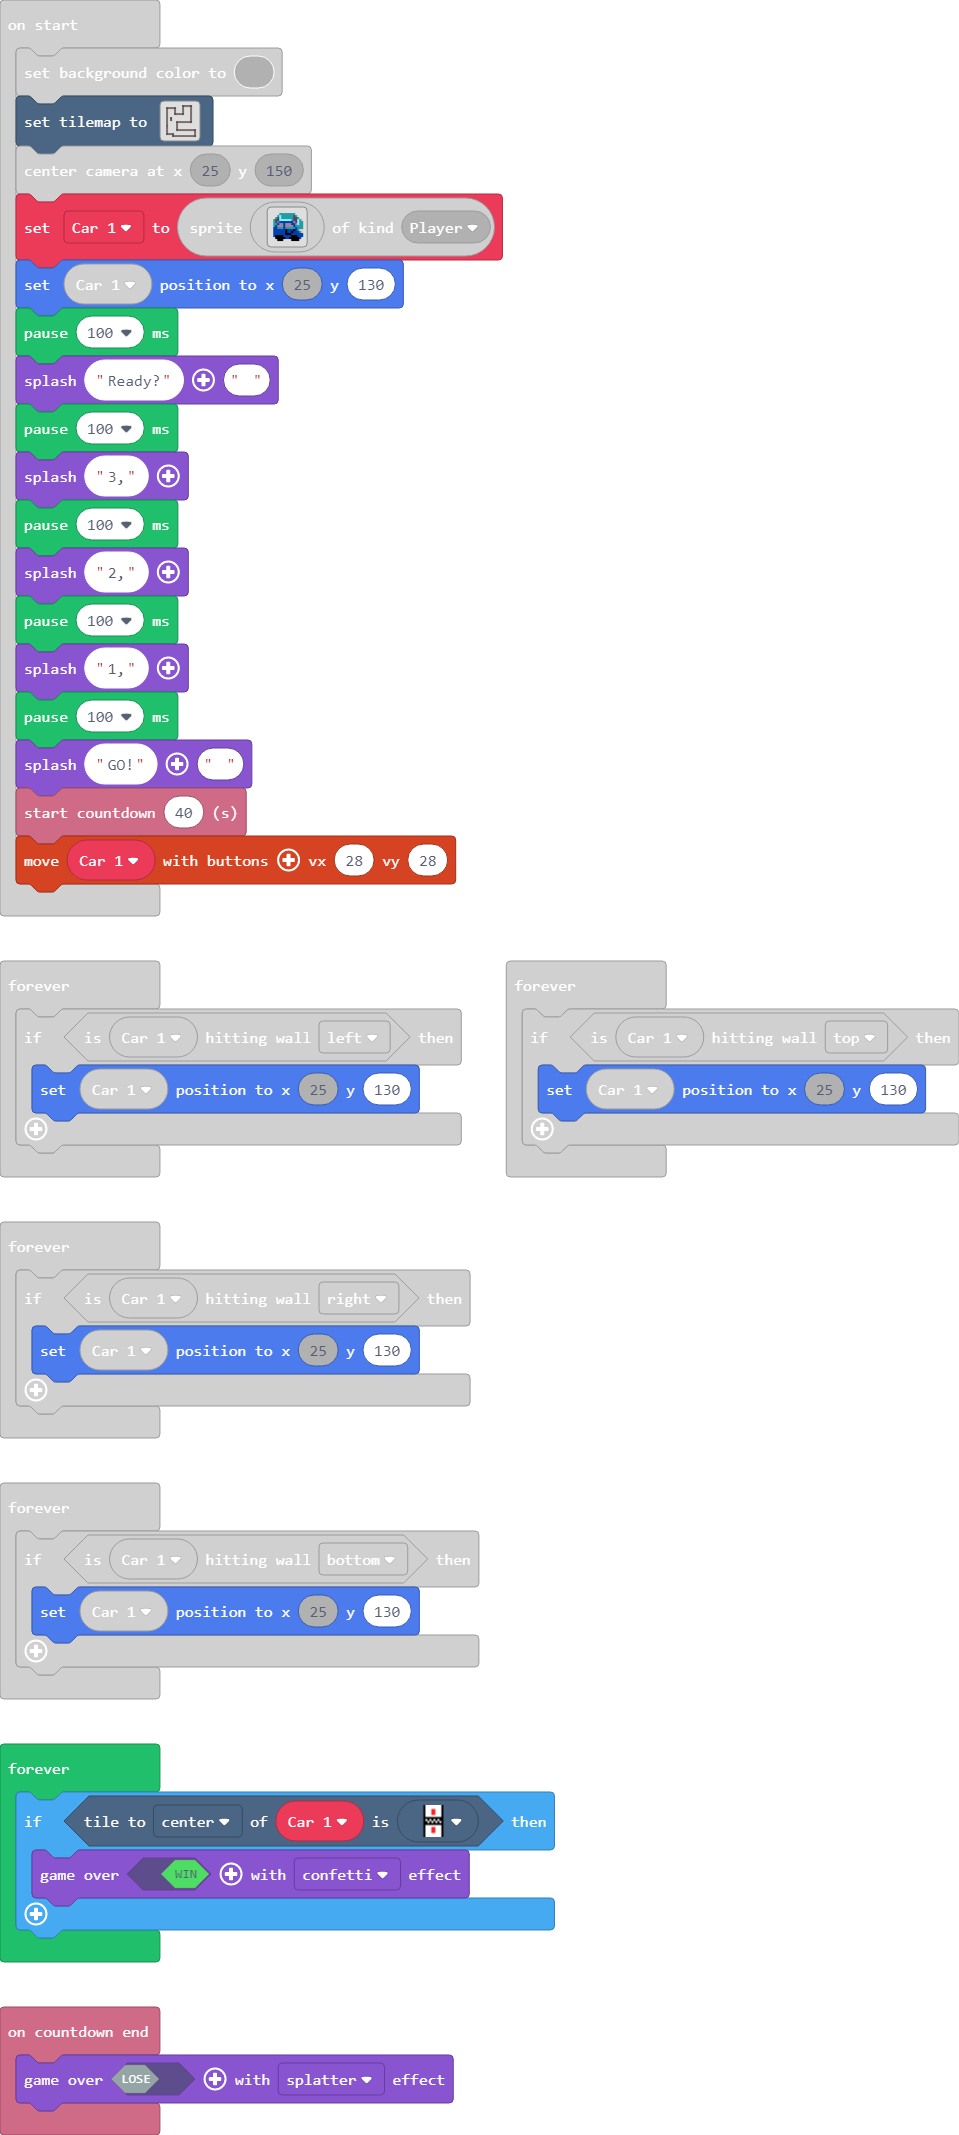
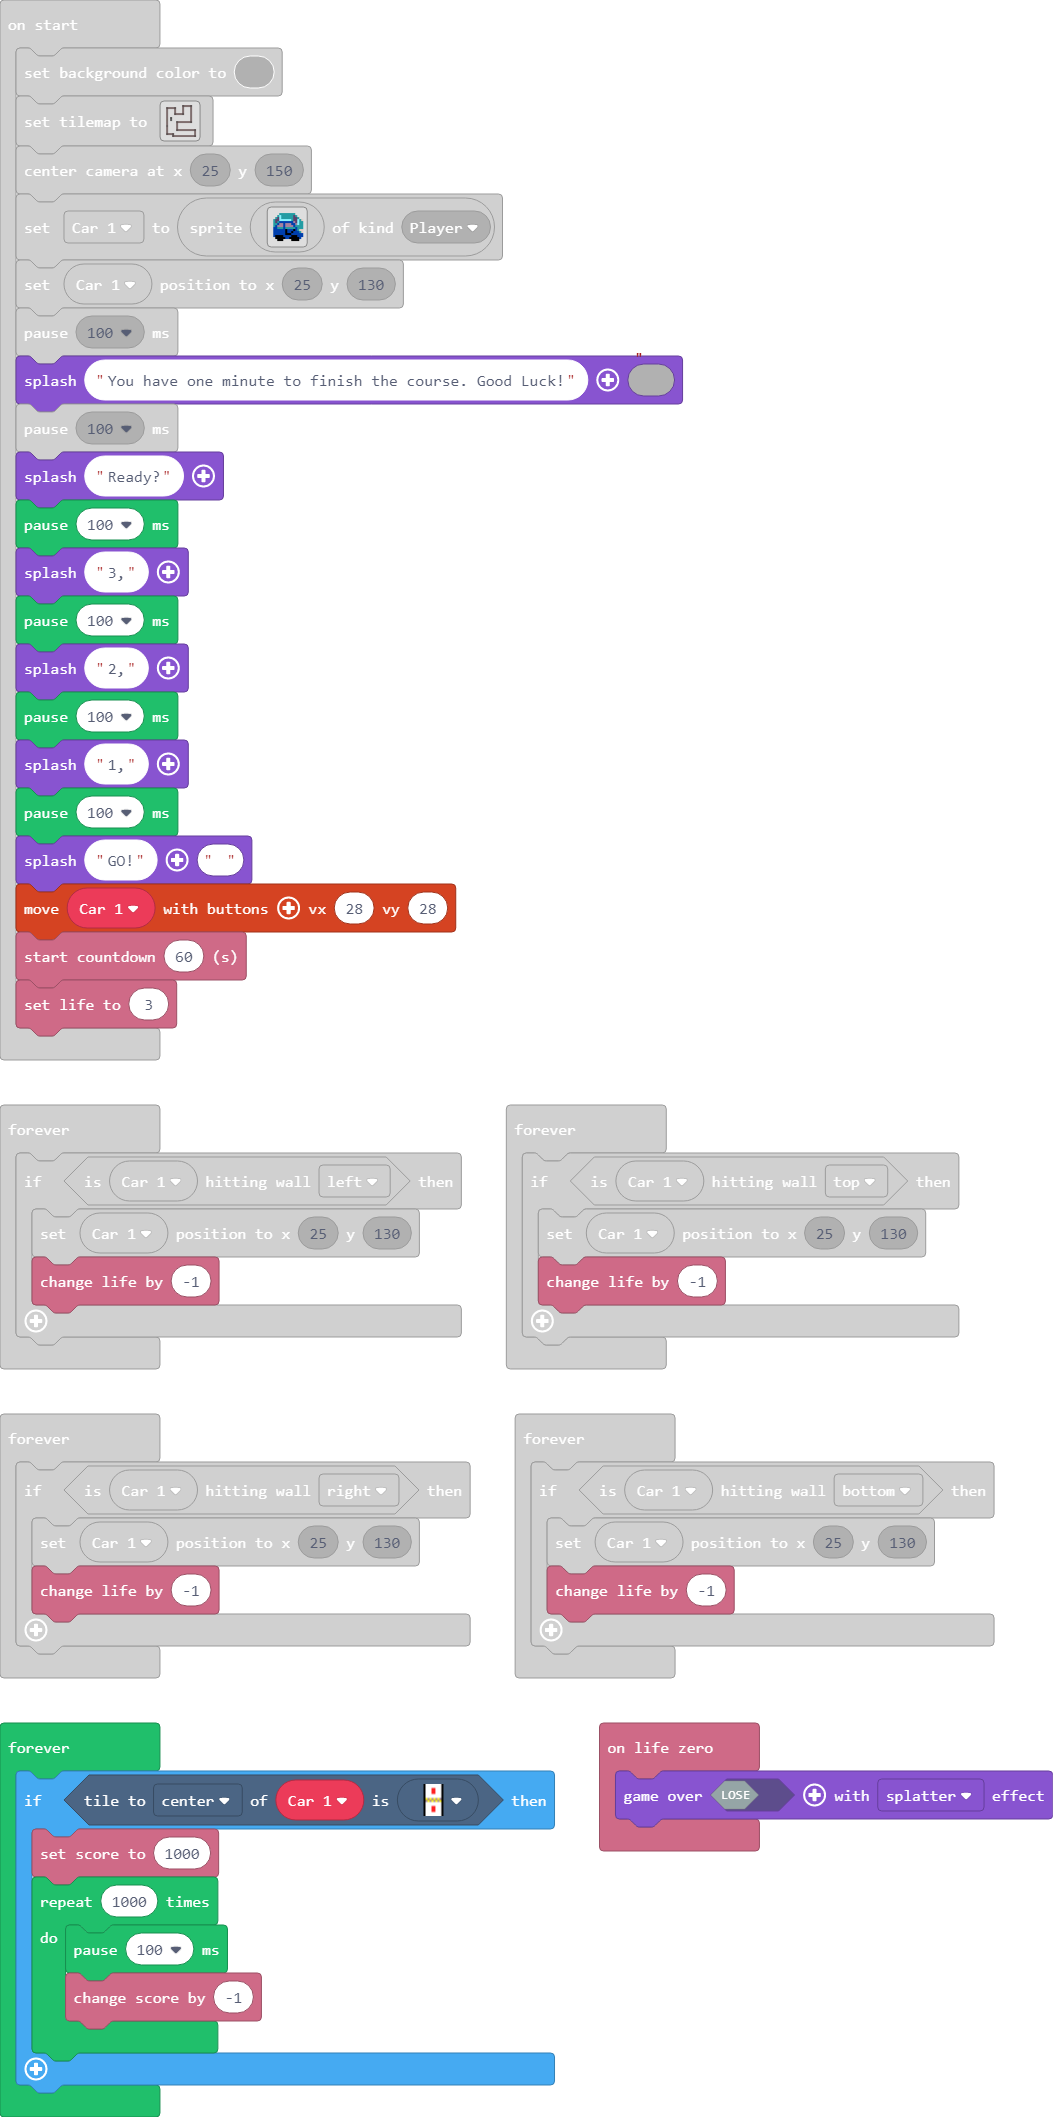
Score Mechanics

diff --git a/main.ts b/main.ts
@@ -231,6 +231,9 @@ f f f f f . . . . . . . . . . .
 info.onCountdownEnd(function () {
     game.over(false, effects.splatter)
 })
+info.onLifeZero(function () {
+    game.over(false, effects.splatter)
+})
 scene.setBackgroundColor(7)
 tiles.setTilemap(tiles.createTilemap(
[1 lines of base64/hex data omitted]
@@ -276,6 +279,8 @@ let Car_1 = sprites.create(img`
 `, SpriteKind.Player)
 Car_1.setPosition(25, 130)
 pause(100)
+game.splash("You have one minute to finish the course. Good Luck!")
+pause(100)
 game.splash("Ready?")
 pause(100)
 game.splash("3,")
@@ -285,8 +290,9 @@ pause(100)
 game.splash("1,")
 pause(100)
 game.splash("GO!")
-info.startCountdown(40)
 controller.moveSprite(Car_1, 28, 28)
+info.startCountdown(60)
+info.setLife(3)
 forever(function () {
     music.playMelody("C5 G B A F A C5 B ", 200)
     scene.cameraFollowSprite(Car_1)
@@ -294,25 +300,38 @@ forever(function () {
 forever(function () {
     if (Car_1.isHittingTile(CollisionDirection.Left)) {
         Car_1.setPosition(25, 130)
+        info.changeLifeBy(-1)
     }
 })
 forever(function () {
     if (Car_1.isHittingTile(CollisionDirection.Top)) {
         Car_1.setPosition(25, 130)
+        info.changeLifeBy(-1)
     }
 })
 forever(function () {
     if (Car_1.isHittingTile(CollisionDirection.Right)) {
         Car_1.setPosition(25, 130)
+        info.changeLifeBy(-1)
     }
 })
 forever(function () {
     if (Car_1.isHittingTile(CollisionDirection.Bottom)) {
         Car_1.setPosition(25, 130)
+        info.changeLifeBy(-1)
     }
 })
 forever(function () {
     if (Car_1.tileKindAt(TileDirection.Center, myTiles.tile10)) {
         game.over(true, effects.confetti)
+    }
+})
+forever(function () {
+    if (Car_1.tileKindAt(TileDirection.Center, myTiles.tile9)) {
+        info.setScore(1000)
+        for (let index = 0; index < 1000; index++) {
+            pause(100)
+            info.changeScoreBy(-1)
+        }
     }
 })
